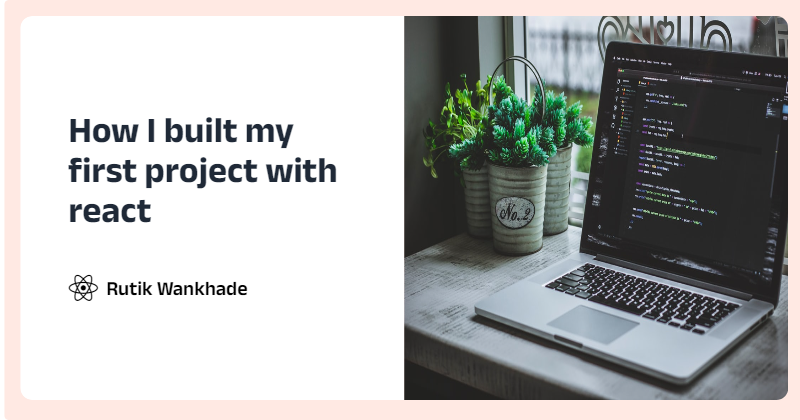
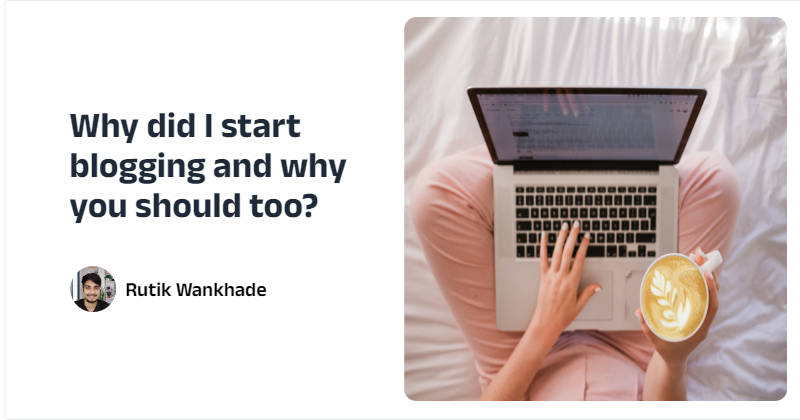
update cover images

diff --git a/src/components/Home.js b/src/components/Home.js
@@ -1,9 +1,11 @@
 import React from 'react';
 import logo from '../assets/icons/logo.png'
 import { Link } from 'react-router-dom';
-import cover1 from '../assets/images/cover5.png'
+import cover1 from '../assets/images/cover1.png'
 import cover2 from '../assets/images/cover2.png'
 import cover3 from '../assets/images/cover3.png'
+import cover4 from '../assets/images/cover4.png'
+
 
 
 import step1 from '../assets/images/step1.png'
@@ -42,7 +44,7 @@ const Home = () => {
             <div className=" temple flex flex-row items-center justify-center mx-auto md:w-10/12">
 
                 <div className="m-4 transform -translate-y-20 border animate  rotate-6 duration-100 bg-white p-2 shadow-sm w-1/5 rounded-lg flex flex-col ">
-                    <img src={cover2} className="rounded mb-2" alt="cover1" />
+                    <img src={cover2} className="border border-gray-100 rounded mb-2" alt="cover1" />
                     <p className="animate animate-pulse bg-gray-50 h-5 rounded mb-2"></p>
                     <p className="animate animate-pulse w-8/12 bg-gray-50 h-5 rounded mb-2"></p>
 
@@ -56,7 +58,7 @@ const Home = () => {
                 </div>
 
                 <div className="m-4 transform -translate-y-20 border animate  -rotate-6 duration-100 bg-white p-2 shadow-sm w-1/5 rounded-lg flex flex-col ">
-                    <img src={cover3} className="rounded mb-2" alt="cover3" />
+                    <img src={cover3} className="rounded border border-gray-100 mb-2" alt="cover3" />
                     <p className="animate animate-pulse bg-gray-50 h-5 rounded mb-2"></p>
                     <p className="animate animate-pulse w-8/12 bg-gray-50 h-5 rounded mb-2"></p>
 
@@ -149,7 +151,7 @@ const Home = () => {
 
                         <div className="flex flex-col mt-4">
                             <img src={cover3} alt="preview" className="  m-2 rounded-lg shadow-sm" />
-                            <img src={cover3} alt="preview" className=" m-2 rounded-lg shadow-sm" />
+                            <img src={cover4} alt="preview" className=" m-2 rounded-lg shadow-sm" />
 
                         </div>
 

diff --git a/src/components/Themes/StylishTheme.js b/src/components/Themes/StylishTheme.js
@@ -62,11 +62,11 @@ const StylishTheme = ({ config }) => {
         <div className=" bg-white rounded">
 
 
-            <div className={`overflow-y-hidden flex flex-col rounded ${platform}`}
-                style={{ backgroundColor: bgColor }}
+            <div className={`border overflow-y-hidden flex flex-col rounded ${platform}`}
+                // style={{ backgroundColor: bgColor }}
             >
 
-                <div className="flex flex-row items-center justify-center p-4 ">
+                <div className="flex flex-row items-center bg-white justify-center p-4 ">
 
                     <div className="h-full w-1/2  bg-white rounded-l-xl">
                         <div className={`${font} px-12 justify-center text-left rounded-xl h-full p-4 flex flex-col`}>
@@ -93,7 +93,11 @@ const StylishTheme = ({ config }) => {
 
                         {unsplashImage ?
                             <div className='relative group'>
-                                <img src={unsplashImage.url && unsplashImage.url} className=" rounded-r-xl object-cover h-96 w-full" alt="preview" />
+                                
+                                <div className="w-96 h-96 ">
+                                <img src={unsplashImage.url && unsplashImage.url} className=" rounded-xl object-cover h-96 w-96" alt="preview" />
+
+                                </div>
                                 <button
                                     onClick={() => setUnsplashImage('')}
                                     className="absolute  top-4 right-2 cursor-pointer">

diff --git a/src/components/CoverImage.css b/src/components/CoverImage.css
@@ -1,6 +1,6 @@
 .dev {
-    height: 340px;
-    width: 860px;
+    height: 350px;
+    width: 870px;
 }
 
 .hashnode {
